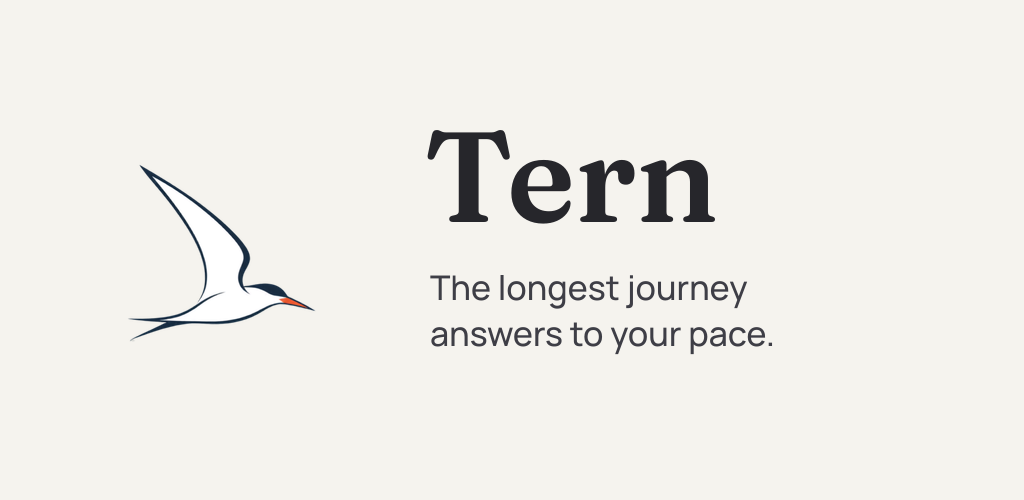
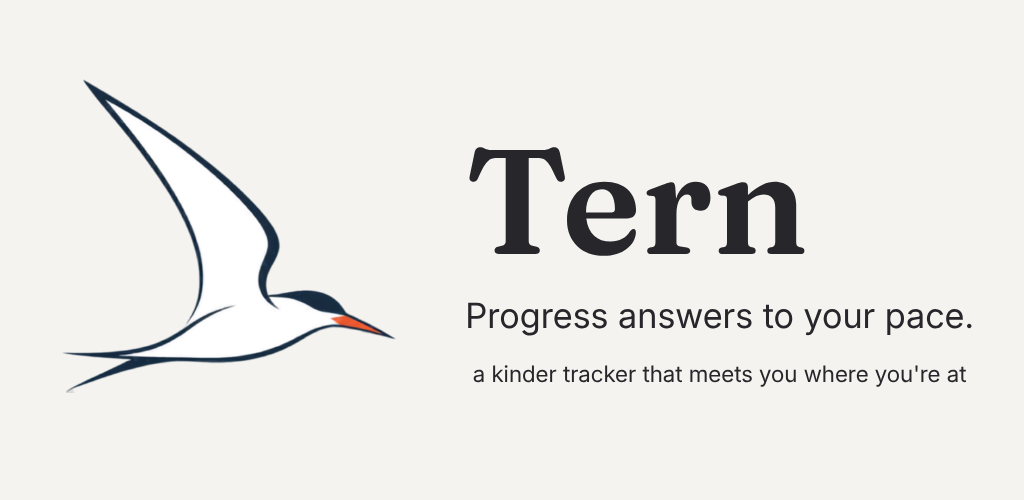
fix: updating the tagline and store listing content

diff --git a/docs/store-listing.md b/docs/store-listing.md
@@ -9,80 +9,77 @@ Tern
 
 ## Short description (80 characters max)
 
-Move, eat, rest. A kinder tracker for the life you're actually living.
+Progress answers to your pace - a kinder tracker that meets you where you're at.
 
 ## Full description (4000 characters max)
 
 Inspired by the Arctic tern, a bird with the longest regular migration on Earth,
-this is a tracker built for the long haul. Steps, food and weight, but resting
-too, all held in balance.
+this is a tracker built for the long haul. Each day you show up, your
+tern travels a little further along its journey.
 
-Each day you show up, your Arctic tern travels a little further along its
-migration. Move when you can, log what sustains you, and always rest when you
-need to.
+Each day you show up, your Arctic tern travels a little further along its migration. Move when you can, log what sustains you, and always rest when you need to.
 
-EVERY DAY YOU SHOW UP COUNTS
-• Earn waypoints for the things within reach: meeting your step goal, logging
-your meals, taking a rest day.
-• Your weight and calories never earn or lose anything. They're there to inform
-you, with no verdict attached.
-• Each waypoint is a milestone on the map, and Tern marks it.
-• Reach the Weddell Sea and your tern turns north for home, then sets off again.
-The journey doesn't run out.
+Track all the things that help you meet your goals:
 
-REST IS PART OF THE JOURNEY
-• Take a rest day whenever you need one. Rest counts as showing up, and your
-streak carries through it.
-• Reach your step goal after taking one and it simply becomes a goal day — the
-rest day goes back to your week, unused.
-• A day under your goal is a day under your goal. Walking part of the way is
-never counted as worse than not walking at all.
-• Raise your step goal whenever you're ready. The streak you've already earned
-stays yours.
-
-THE NUMBERS ARE OPTIONAL
-• Hide calorie counts completely and log your meals without a single number
-attached.
-• Turn off "remaining today" to see what you ate rather than what's left.
-• Show or hide processing labels. NOVA is a food-science scale, not a verdict on
-your dinner.
-• Turn weight off entirely, and Tern stops asking. Set a goal weight only if you
-want one — there's no goal line until you do.
-• Tern never shows exercise as earning calories back, and never warns you for
-going over.
-• Tern can learn your real daily burn from your log and weight trend, and suggest
-a target to match. It never changes one on its own.
-
-STEPS
-• Connect Health Connect (or Apple Health on iPhone) to see today's steps, your streak and your goal.
-• Choose a goal that fits your life, and change it as your life changes.
-• Step counts stay on your device. They're never uploaded.
+MOVEMENT
+• Set a daily step goal and connect Health Connect or Apple Health. Your steps
+are read on your phone and never uploaded.
+• Log workouts and how hard they felt.
+• Take rest days that preserve your momentum. A rest day counts as showing up,
+so your streak carries right through it.
+• Walking part of the way is never counted as worse than not walking at all.
+• Raise your goal whenever you're ready or increase your rest days when you need
+to take a longer break.
 
 FOOD
+• Track calories, macros or neither! Nothing warns you for going over, and
+exercise never earns food back.
+• Control how food is displayed. Foods get a NOVA processing level as
+information, never a judgment, and you decide whether to show NOVA numbers,
+colors or neither.
+• Hide calorie counts so the numbers don't keep you from showing up.
 • Search everyday foods and packaged products, or scan a barcode.
-• Log breakfast, lunch, dinner and snacks in quarter-serving portions.
+• Save meals, or re-log yesterday's dinner in a tap.
 • Didn't have lunch? Mark it "nothing today". It counts the same as a logged
-meal, so a complete log never means eating more than you wanted.
-• Save the meals you eat often and add them in a tap, or scale them up and down.
-• Eating the same thing again? Log yesterday’s dinner, or any meal from the
-last two weeks, without searching for it twice.
-• See calories and macros for the day, if you want to see them at all.
+meal, so a complete log never means eating more or less than you wanted.
+• Opt into check-ins after meals to see how each one impacts you.
+• Want a hand? Tern can learn your real daily burn from your log and weight
+trend and suggest a calorie target. It never changes one on its own.
 
-WEIGHT
-• Log weigh-ins in pounds or kilograms.
-• Follow the trend over time, so a single morning never decides how you feel.
+WEIGHT (OPTIONAL)
+• Track daily, weekly or neither! Turn weight off and stop seeing any reference to it
+when you need a break.
+• Skip a weigh-in if you need to.
+• Gain, lose or hold steady: your log is there for whatever goal you set. Follow
+the trend, so a single morning never decides how you feel.
+• Pounds or kilograms, your choice.
+
+WATER (OPTIONAL)
+• Set a daily goal and watch it fill up.
+• Get reminders on a schedule that suits you, or none at all.
+
+MOOD AND STRESS (OPTIONAL)
+• A quick daily check-in to see how you're doing over time.
+
+MEDICATION (OPTIONAL)
+• Add as many as you need.
+• Set each one daily or weekly, with its own reminder if you want one.
+
+WAYPOINTS FOR SHOWING UP
+• Earned for showing up for the habits you choose..
+• Reach the Weddell Sea and your tern heads home, then sets off again, so the
+journey never ends.
 
 GENTLE REMINDERS
-• Optional reminders for meals and weigh-ins, scheduled on your device. They
-never mention what you missed, and you can turn them off any time.
+• Every reminder is optional and never mention what you missed
 
 YOUR DATA IS YOURS
-• No ads, and your data is never sold.
-• Export everything Tern holds as a file, and restore from it on a new phone.
-• Delete your data, or your whole account, from Settings.
-• No account needed. Everything stays on your phone unless you choose to sign in.
-• Optional Tern Plus adds an account that syncs and backs up your data. Every
-feature is free without it.
+• No ads, nothing sold.
+• No account required: stay anonymous and keep everything on your phone. Every
+feature is free.
+• Create an account with Tern Plus to keep your data on a secure server.
+• Export everything and restore it on a new phone, or delete your data or your
+account any time, right from Settings.
 
 Nutrition information comes from Open Food Facts and USDA FoodData Central.
 
